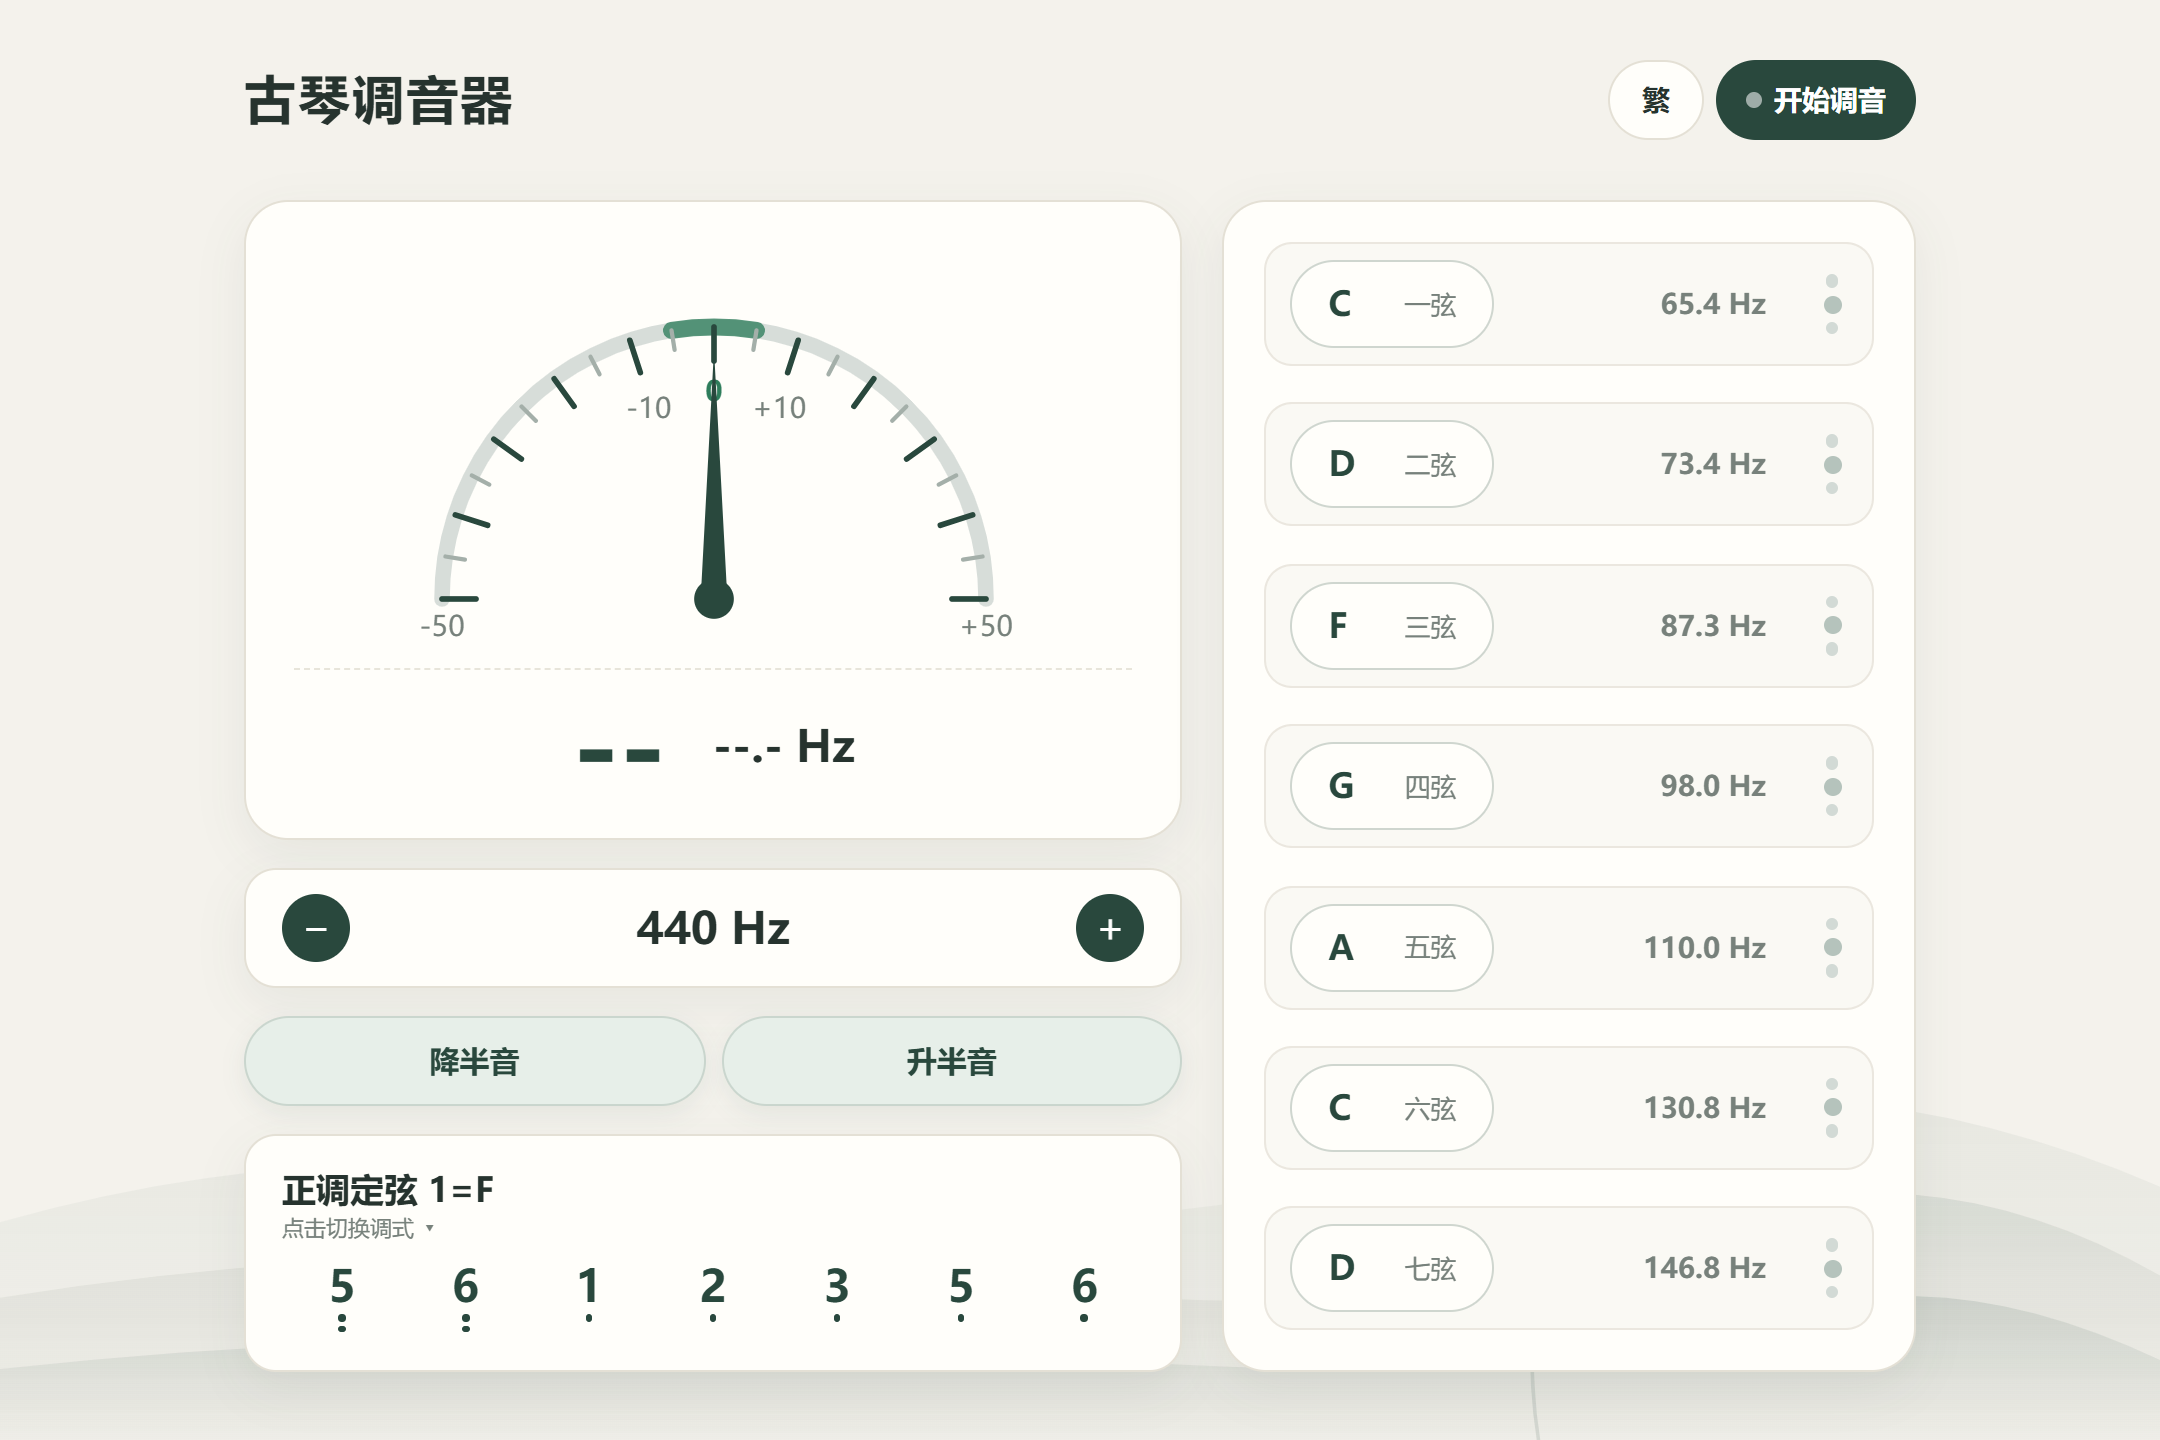
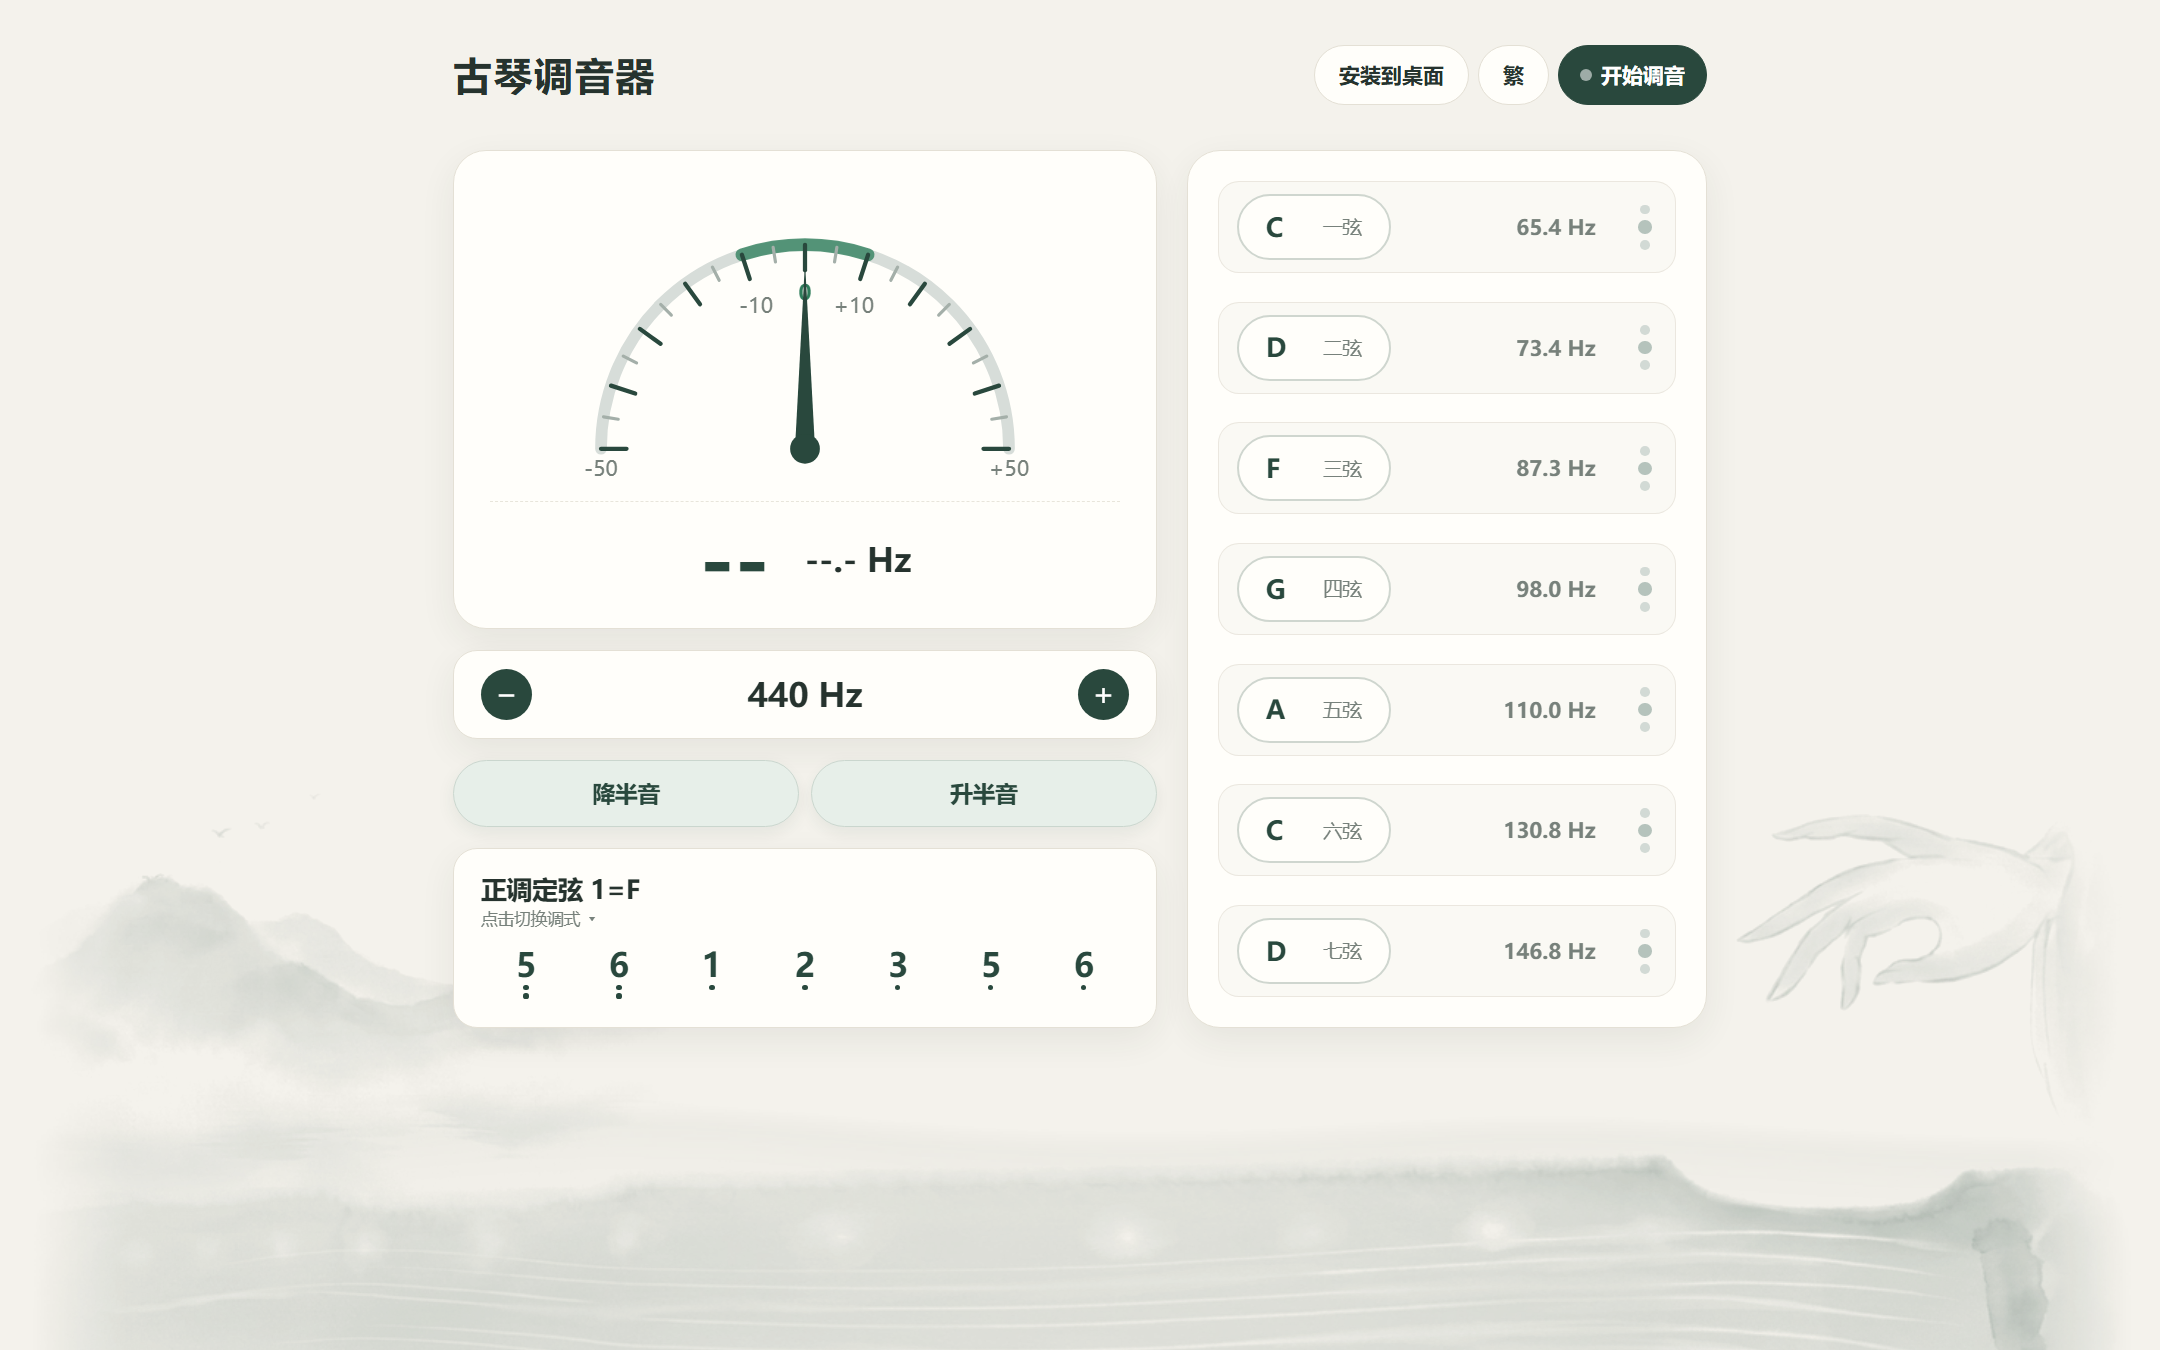
1、【更新】同步 README.md 参数说明与致谢内容，并替换为新版没骨水墨底图与 ±10 音分表盘的实机预览截图；

diff --git a/README.md b/README.md
@@ -20,11 +20,11 @@
 
 ## 它做了什么
 
-**低频防八度误判**，采用 MPM（McLeod Pitch Method）音高检测算法，专门针对 `C2` 这类低音弦做倍频抑制，配合音高平滑和 `1500ms` 尾音保持，拨完弦能稳住读数。
+**低频防八度误判**，采用 MPM（McLeod Pitch Method）音高检测算法，专门针对 `C2` 这类低音弦做倍频抑制，检测下限覆盖至 `30 Hz`，配合音高平滑和 `1500 ms` 尾音保持，拨完弦能稳住读数。
 
-**六种传统调式与移调**，内置正调、蕤宾调、慢角调、清商调、慢商调和无射调，同时列出七弦散音音名、目标频率和简谱。`A4` 基准音可在 `430 Hz ~ 450 Hz` 之间微调，整体支持 `-6 ~ +6` 半音移调，偏差落在 `±5` 音分以内就算准音。
+**六种传统调式与移调**，内置正调、蕤宾调、慢角调、清商调、慢商调和无射调，同时列出七弦散音音名、目标频率和简谱。`A4` 基准音支持 `240 Hz ~ 640 Hz`（`440 ± 200 Hz`）大范围调节，两侧按钮支持短按微调与长按连续加速、点击数值一键复位 `440 Hz`；整体支持 `-6 ~ +6` 半音移调，偏差落在 `±10` 音分以内即为准音。
 
-**简繁切换与多端离线**，右上角可一键切换简体中文和繁体中文。Android 端通过 `WebViewAssetLoader` 映射本地安全源并原生申请麦克风权限，调音期间自动保持屏幕常亮；网页版自带 Service Worker（`sw.js`），添加到桌面后一样可以离线打开。
+**宣纸墨韵与多端离线**，底部配有淡墨绿没骨山水抚琴水墨底图，大屏与小屏分别采用独立构图；右上角可一键切换简体中文和繁体中文，连击左上角标题「古琴调音器」5 次可呼出「关于」弹窗查看版本号、作者与更新日志。Android 端通过 `WebViewAssetLoader` 映射本地安全源并原生申请麦克风权限，调音期间自动保持屏幕常亮；网页版自带 Service Worker（`sw.js`），添加到桌面后一样可以离线打开。
 
 ```mermaid
 flowchart LR
@@ -84,7 +84,7 @@ gradle assembleDebug --no-daemon
 npm test
 ```
 
-用例覆盖六种传统调式定义、移调边界、同音弦匹配、低频 MPM 防八度误判和音高平滑逻辑。
+用例覆盖六种传统调式定义、`240 ~ 640 Hz` A4 基准与移调边界、`±10` 音分准音判定、同音弦匹配、低频 MPM 防八度误判、音高平滑逻辑及简繁词条完整性。
 
 ## 目录结构
 
@@ -94,8 +94,9 @@ guqin_tuner/
 ├── style.css                   # 宣纸墨绿国风响应式样式
 ├── sw.js                       # PWA 离线缓存 Service Worker
 ├── manifest.webmanifest        # PWA 应用清单
-├── guqin_tuner.html            # 单文件便携版（HTML/CSS/JS 全内联）
+├── guqin_tuner.html            # 单文件便携版（HTML/CSS/JS 与底图全内联）
 ├── guqin_tuner.apk             # 预编译 Android 离线安装包
+├── assets/                     # 大小屏透明没骨水墨底图（WebP）
 ├── docs/images/                # README 界面预览截图
 ├── icons/                      # 网页与 PWA 图标资源
 ├── src/
@@ -103,11 +104,15 @@ guqin_tuner/
 │   ├── audio.js                # Web Audio 麦克风采集封装
 │   ├── pitch.js                # MPM 低频音高检测与平滑器
 │   ├── tunings.js              # 古琴六调式与频率/音分引擎
-│   └── i18n.js                 # 简繁中文词条
+│   └── i18n.js                 # 简繁中文词条与版本日志
 ├── tests/                      # 单元测试
 ├── android/                    # Android 原生 WebView 壳工程（含自适应图标）
 └── .github/workflows/          # GitHub Actions 云端编译 APK 工作流
 ```
+
+## 致谢
+
+感谢乐乐提供的底图。
 
 ## 开源许可
 
